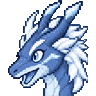
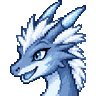
마을 인물 서 있는 포즈로 (티아맷·미라·이그나르·모스·펀) · 나라는 청소년으로 다시
- 앉거나 누운 그림은 걷기 애니메이션 바탕이 못 돼서 EditImage 로 같은 용을 서 있는 자세로 다시 그렸다
- 나라는 성체처럼 보여 청소년 체형으로 새로 뽑고 초상화도 다시
- build_cast.py: 시트 미리보기 파일은 초상화 폴더로 복사하지 않는다

diff --git a/src/data/sprites.js b/src/data/sprites.js
@@ -133,17 +133,17 @@ DRAGON_SHEETS.CAST = {
     fw: 192, fh: 160, cols: 6,
     boxes: [
         { x: 30, y: 40, w: 131, h: 120 },   // elder
-        { x: 46, y: 40, w: 100, h: 120 },   // tiamat
+        { x: 42, y: 40, w: 107, h: 120 },   // tiamat
         { x: 23, y: 40, w: 146, h: 120 },   // poco
         { x: 23, y: 40, w: 146, h: 120 },   // gron
-        { x: 21, y: 55, w: 150, h: 105 },   // nara
+        { x: 28, y: 40, w: 136, h: 120 },   // nara
         { x: 21, y: 89, w: 150, h: 71 },    // kairon
         { x: 26, y: 40, w: 140, h: 120 },   // ember
-        { x: 21, y: 41, w: 150, h: 119 },   // mira
+        { x: 34, y: 40, w: 123, h: 120 },   // mira
         { x: 33, y: 40, w: 126, h: 120 },   // vesna
-        { x: 35, y: 40, w: 121, h: 120 },   // ignar
-        { x: 21, y: 48, w: 150, h: 112 },   // moss
-        { x: 37, y: 40, w: 118, h: 120 },   // fern
+        { x: 32, y: 40, w: 128, h: 120 },   // ignar
+        { x: 26, y: 40, w: 140, h: 120 },   // moss
+        { x: 30, y: 40, w: 131, h: 120 },   // fern
         { x: 29, y: 40, w: 134, h: 120 },   // garam
         { x: 26, y: 40, w: 139, h: 120 },   // dol
         { x: 37, y: 40, w: 117, h: 120 },   // riun

diff --git a/tools/build_cast.py b/tools/build_cast.py
@@ -79,6 +79,8 @@ def main():
     pdir.mkdir(exist_ok=True)
     n = 0
     for f in sorted((RAW / 'portraits/final').glob('*_*.png')):
+        if f.name.startswith('sheet'):
+            continue
         shutil.copy(f, pdir / f.name)
         n += 1
     print('portraits copied:', n)
